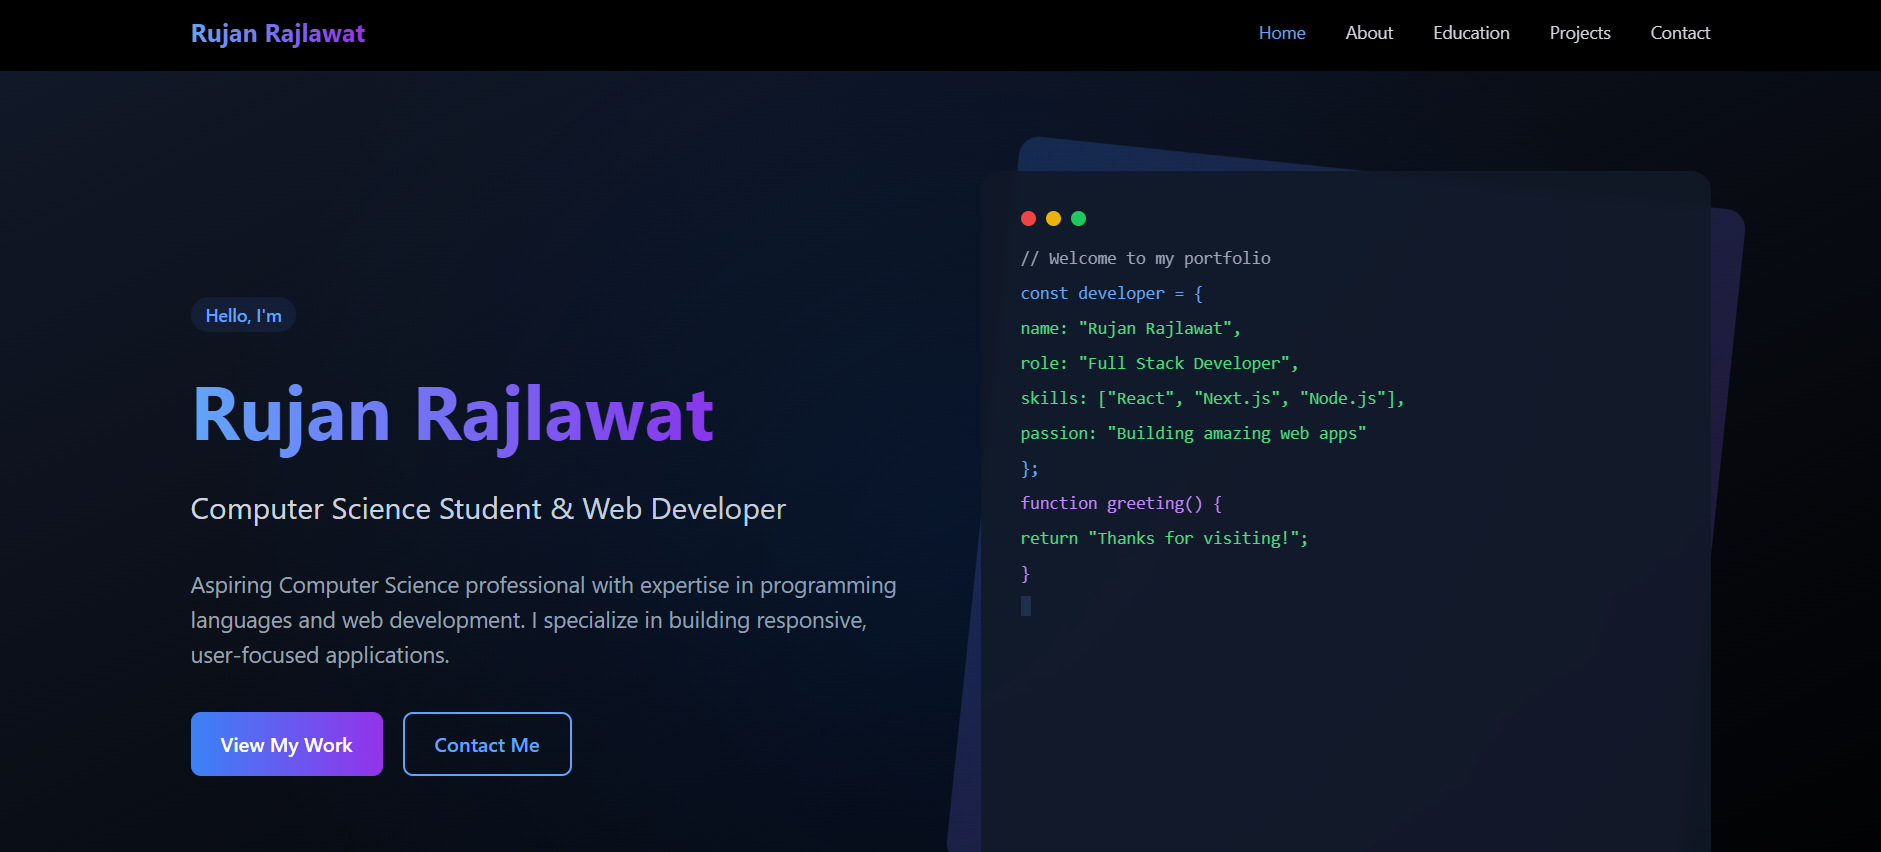
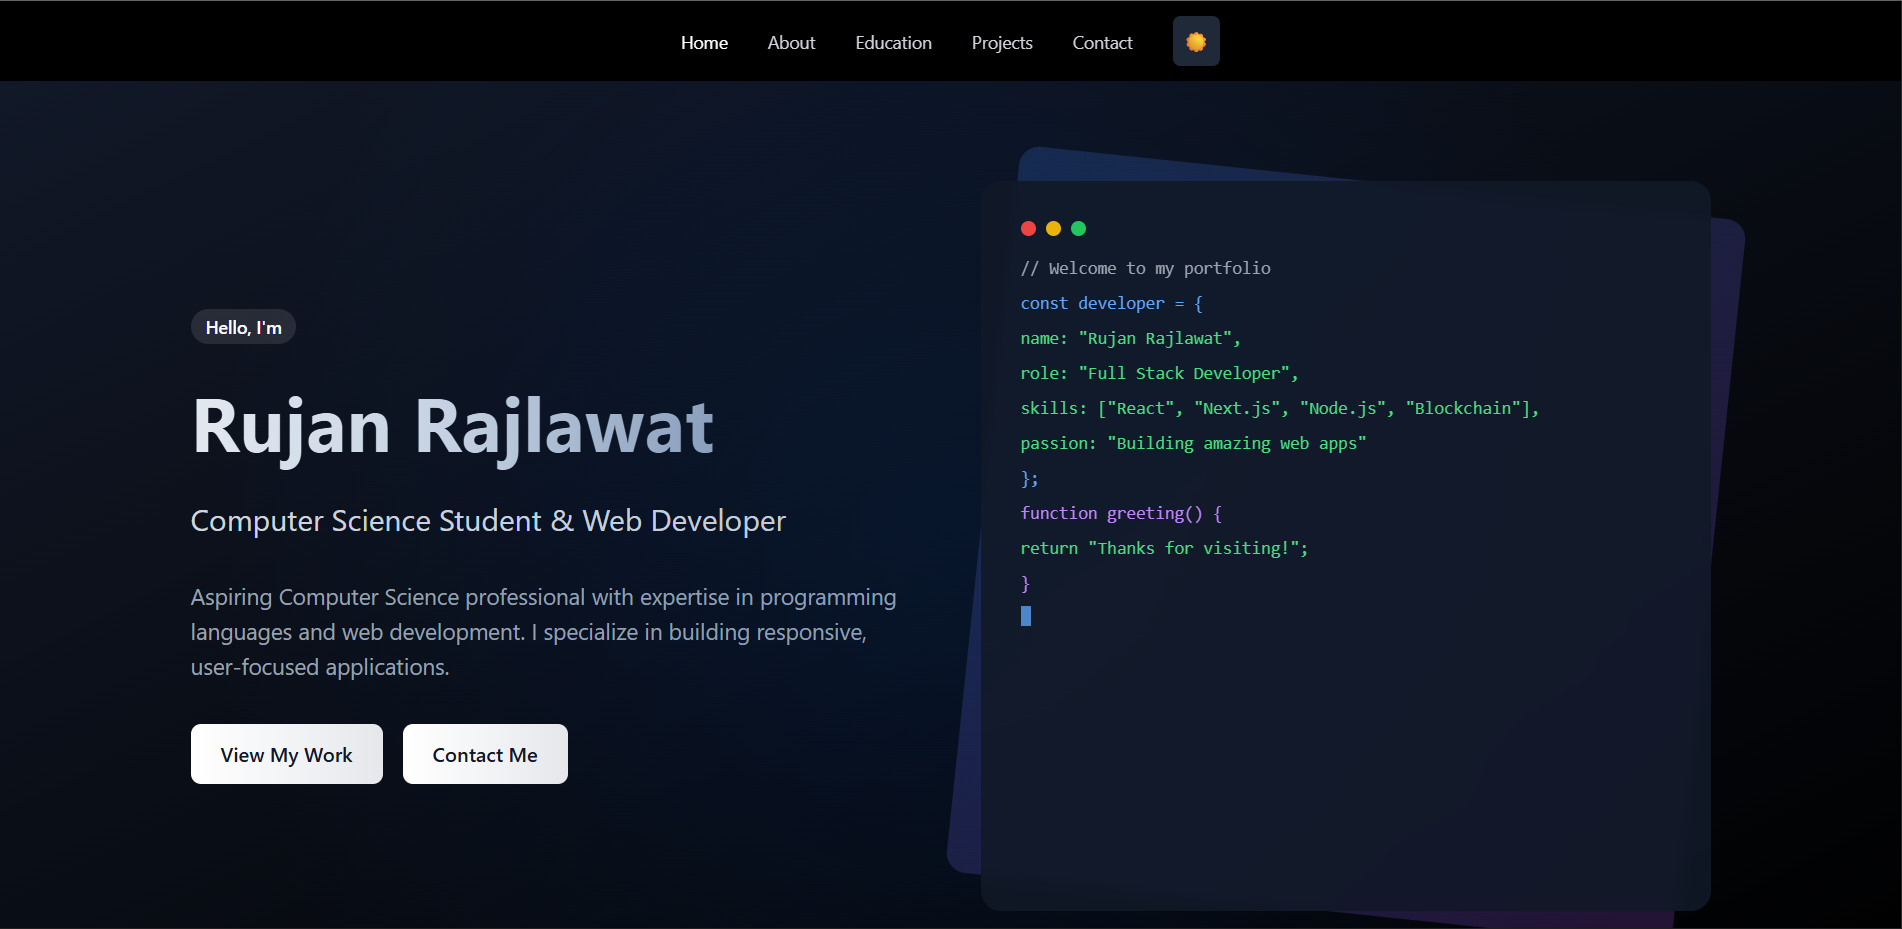
Updated

diff --git a/src/components/Hero.tsx b/src/components/Hero.tsx
@@ -60,7 +60,7 @@ const Hero = () => {
           transition={{ duration: 0.8 }}
         >
           <motion.span 
-            className="inline-flex items-center px-3 py-1 rounded-full text-sm font-medium bg-blue-500/10 text-blue-600 dark:text-blue-400"
+            className="inline-flex items-center px-3 py-1 rounded-full text-sm font-medium bg-gray-900/10 text-gray-900 dark:bg-white/10 dark:text-white"
             initial={{ opacity: 0, scale: 0.5 }}
             animate={{ opacity: 1, scale: 1 }}
             transition={{ delay: 0.2 }}
@@ -102,7 +102,7 @@ const Hero = () => {
           >
             <motion.a 
               href="#projects"
-              className="inline-flex items-center px-6 py-3 rounded-lg bg-gradient-to-r from-blue-500 to-purple-600 text-white font-medium transition-all transform hover:-translate-y-1 hover:shadow-lg"
+              className="inline-flex items-center px-6 py-3 rounded-lg bg-gradient-to-r from-gray-900 via-gray-800 to-black text-white font-medium transition-all transform hover:-translate-y-1 hover:shadow-lg dark:from-white dark:via-gray-100 dark:to-gray-200 dark:text-gray-900"
               whileHover={{ scale: 1.05 }}
               whileTap={{ scale: 0.95 }}
             >
@@ -110,7 +110,7 @@ const Hero = () => {
             </motion.a>
             <motion.a 
               href="#contact"
-              className="inline-flex items-center px-6 py-3 rounded-lg border-2 border-blue-400 text-blue-400 hover:bg-blue-400 hover:text-white font-medium transition-all transform hover:-translate-y-1 hover:shadow-lg"
+              className="inline-flex items-center px-6 py-3 rounded-lg bg-gradient-to-r from-gray-900 via-gray-800 to-black text-white font-medium transition-all transform hover:-translate-y-1 hover:shadow-lg dark:from-white dark:via-gray-100 dark:to-gray-200 dark:text-gray-900"
               whileHover={{ scale: 1.05 }}
               whileTap={{ scale: 0.95 }}
             >

diff --git a/src/components/Education.tsx b/src/components/Education.tsx
@@ -30,7 +30,7 @@ const Education = () => {
           className="text-center mb-16"
         >
           <h2 className="text-4xl font-bold gradient-text mb-4 leading-relaxed py-1">Education</h2>
-          <div className="w-24 h-1 bg-gradient-to-r from-blue-400 to-purple-600 mx-auto mt-2"></div>
+          <div className="w-24 h-1 bg-gradient-to-r from-gray-900 to-gray-100 dark:from-gray-100 dark:to-gray-900 mx-auto mt-2"></div>
         </motion.div>
 
         <div className="space-y-12">
@@ -47,14 +47,14 @@ const Education = () => {
               <div className="ml-8">
                 <div className="bg-gray-100/50 dark:bg-gray-800/50 backdrop-blur-sm rounded-xl p-6 border border-gray-200/50 dark:border-gray-700/50">
                   <h3 className="text-2xl font-bold text-gray-900 dark:text-white mb-2">{edu.degree}</h3>
-                  <p className="text-blue-600 dark:text-blue-400 mb-2">{edu.institution}</p>
+                  <p className="text-lg font-semibold text-gray-900 dark:text-gray-100 mb-3">{edu.institution}</p>
                   <p className="text-gray-700 dark:text-gray-400 mb-4">{edu.duration}</p>
                   <p className="text-gray-700 dark:text-gray-300 mb-4">{edu.description}</p>
                   <div className="flex flex-wrap gap-2">
                     {edu.courses.map((course, courseIndex) => (
                       <span
                         key={courseIndex}
-                        className="px-3 py-1 bg-blue-500/10 text-blue-400 rounded-full text-sm"
+                        className="px-3 py-1.5 text-sm bg-gray-200/50 dark:bg-gray-700/50 text-gray-800 dark:text-gray-300 rounded-lg hover:bg-blue-500/20 hover:text-blue-400 transition-colors"
                       >
                         {course}
                       </span>

diff --git a/src/components/Projects.tsx b/src/components/Projects.tsx
@@ -65,7 +65,7 @@ const Projects = () => {
           className="text-center mb-16"
         >
           <h2 className="text-4xl font-bold gradient-text mb-4 leading-relaxed py-1">Projects</h2>
-          <div className="w-24 h-1 bg-gradient-to-r from-gray-900 via-gray-800 to-black mx-auto mt-2"></div>
+          <div className="w-24 h-1 bg-gradient-to-r from-gray-900 to-gray-100 dark:from-gray-100 dark:to-gray-900 mx-auto mt-2"></div>
         </motion.div>
 
         <div className="grid md:grid-cols-2 lg:grid-cols-2 gap-8">
@@ -113,13 +113,13 @@ const Projects = () => {
                 </div>
               </div>
                   <div className="p-6 bg-white dark:bg-gray-800">
-  <h3 className="text-2xl font-bold text-transparent bg-clip-text bg-gradient-to-r from-blue-600 via-indigo-600 to-purple-600 dark:from-blue-400 dark:via-indigo-400 dark:to-purple-400 mb-2">{project.title}</h3>
+  <h3 className="text-2xl font-bold text-gray-900 dark:text-white mb-6">{project.title}</h3>
         <p className="text-gray-700 dark:text-gray-300 mb-4">{project.description}</p>
                 <div className="flex flex-wrap gap-2 mb-6">
                         {project.technologies && project.technologies.map((tech, techIndex) => (
                           <span
                             key={techIndex}
-                            className="px-3 py-1 bg-blue-100 text-blue-700 dark:bg-blue-500/10 dark:text-blue-400 rounded-full text-sm"
+                            className="px-3 py-1.5 text-sm bg-gray-200/50 dark:bg-gray-700/50 text-gray-800 dark:text-gray-300 rounded-lg hover:bg-blue-500/20 hover:text-blue-400 transition-colors"
                           >
                             {tech}
                           </span>

diff --git a/src/components/Navbar.tsx b/src/components/Navbar.tsx
@@ -65,7 +65,7 @@ const Navbar = () => {
         <div className="max-w-7xl mx-auto px-4 sm:px-6 lg:px-8">
           <div className="flex items-center justify-between h-16">
             <motion.div
-              className="text-xl font-bold bg-gradient-to-r from-blue-400 to-purple-600 text-transparent bg-clip-text"
+              className="text-xl font-bold bg-gradient-to-r from-gray-900 to-black text-transparent bg-clip-text dark:from-white dark:to-gray-200"
               whileHover={{ scale: 1.05 }}
               onClick={() => scrollToSection('home')}
               style={{ cursor: 'pointer' }}
@@ -81,7 +81,7 @@ const Navbar = () => {
                   onClick={() => scrollToSection(item.id)}
                   className={`text-sm transition-colors ${
                     activeSection === item.id
-                      ? 'text-blue-600 dark:text-blue-400'
+                      ? 'text-gray-900 dark:text-white'
                       : 'text-gray-300 hover:text-white'
                   }`}
                   whileHover={{ scale: 1.1 }}
@@ -147,7 +147,7 @@ const Navbar = () => {
                     onClick={() => scrollToSection(item.id)}
                     className={`block w-full text-left px-3 py-2 rounded-md text-base ${
                       activeSection === item.id
-                        ? 'text-blue-600 dark:text-blue-400 bg-gray-100 dark:bg-gray-800'
+                        ? 'text-gray-900 dark:text-white bg-gray-100 dark:bg-gray-800'
                         : 'text-gray-700 dark:text-gray-300 hover:dark:text-white hover:text-black hover:bg-gray-100 dark:hover:bg-gray-700'
                     }`}
                     whileHover={{ x: 10 }}

diff --git a/src/components/Contact.tsx b/src/components/Contact.tsx
@@ -18,7 +18,7 @@ const Contact = () => {
           className="text-center mb-16"
         >
           <h2 className="text-4xl font-bold gradient-text mb-4 leading-relaxed py-1">Contact Me</h2>
-          <div className="w-24 h-1 bg-gradient-to-r from-blue-400 to-purple-600 mx-auto mt-2"></div>
+          <div className="w-24 h-1 bg-gradient-to-r from-gray-900 to-gray-100 dark:from-gray-100 dark:to-gray-900 mx-auto mt-2"></div>
         </motion.div>
 
         <div className="grid md:grid-cols-2 gap-12">
@@ -142,8 +142,7 @@ const Contact = () => {
               </div>
               <motion.button
                 type="submit"
-                className="w-full px-6 py-3 rounded-lg bg-gradient-to-r from-blue-500 to-purple-600 text-white font-medium hover:from-blue-600 hover:to-purple-700 transition-all transform hover:-translate-y-1 hover:shadow-lg"
-                whileHover={{ scale: 1.02 }}
+                className="w-full px-6 py-3 rounded-lg bg-gradient-to-r from-gray-800 to-black text-white font-medium hover:from-gray-900 hover:to-gray-800 transition-all transform hover:-translate-y-1 hover:shadow-lg"
                 whileTap={{ scale: 0.98 }}
               >
                 Send Message

diff --git a/src/components/About.tsx b/src/components/About.tsx
@@ -40,7 +40,7 @@ const About = () => {
           className="text-center mb-16"
         >
           <h2 className="text-4xl font-bold gradient-text mb-4 leading-relaxed">About Me</h2>
-          <div className="w-24 h-1 bg-gradient-to-r from-blue-400 to-purple-600 mx-auto mt-2"></div>
+          <div className="w-24 h-1 bg-gradient-to-r from-gray-900 to-gray-100 dark:from-gray-100 dark:to-gray-900 mx-auto mt-2"></div>
         </motion.div>
 
         <div className="grid lg:grid-cols-2 gap-8 items-start">
@@ -82,7 +82,7 @@ const About = () => {
                   transition={{ duration: 0.5, delay: groupIndex * 0.1 }}
                   viewport={{ once: true }}
                 >
-                  <h4 className="text-lg font-semibold text-blue-400 mb-3">{skillGroup.category}</h4>
+                  <h4 className="text-lg font-semibold text-gray-900 dark:text-gray-100 mb-3">{skillGroup.category}</h4>
                   <div className="flex flex-wrap gap-2">
                     {skillGroup.items.map((skill, index) => (
                       <motion.span

diff --git a/tailwind.config.js b/tailwind.config.js
@@ -8,6 +8,9 @@ module.exports = {
   ],
   theme: {
     extend: {
+      fontFamily: {
+        sans: ['"SF Pro Display"', '"SF Pro Text"', 'system-ui', '-apple-system', 'Segoe UI', 'Roboto', 'Helvetica', 'Arial'],
+      },
       animation: {
         'gradient-x': 'gradient-x 15s ease infinite',
         'gradient-y': 'gradient-y 15s ease infinite',

diff --git a/src/styles/globals.css b/src/styles/globals.css
@@ -5,12 +5,12 @@
 @layer base {
   /* Light mode defaults */
   body {
-    @apply bg-white text-gray-900;
+    @apply bg-white text-gray-900 font-sans;
   }
 
   /* Dark mode (when .dark is present on html element) */
   .dark body {
-    @apply bg-black text-white;
+    @apply bg-black text-white font-sans;
   }
 }
 

diff --git a/src/components/ThemeToggle.tsx b/src/components/ThemeToggle.tsx
@@ -31,3 +31,5 @@ const ThemeToggle: React.FC = () => {
 };
 
 export default ThemeToggle;
+
+//Light/Dark
